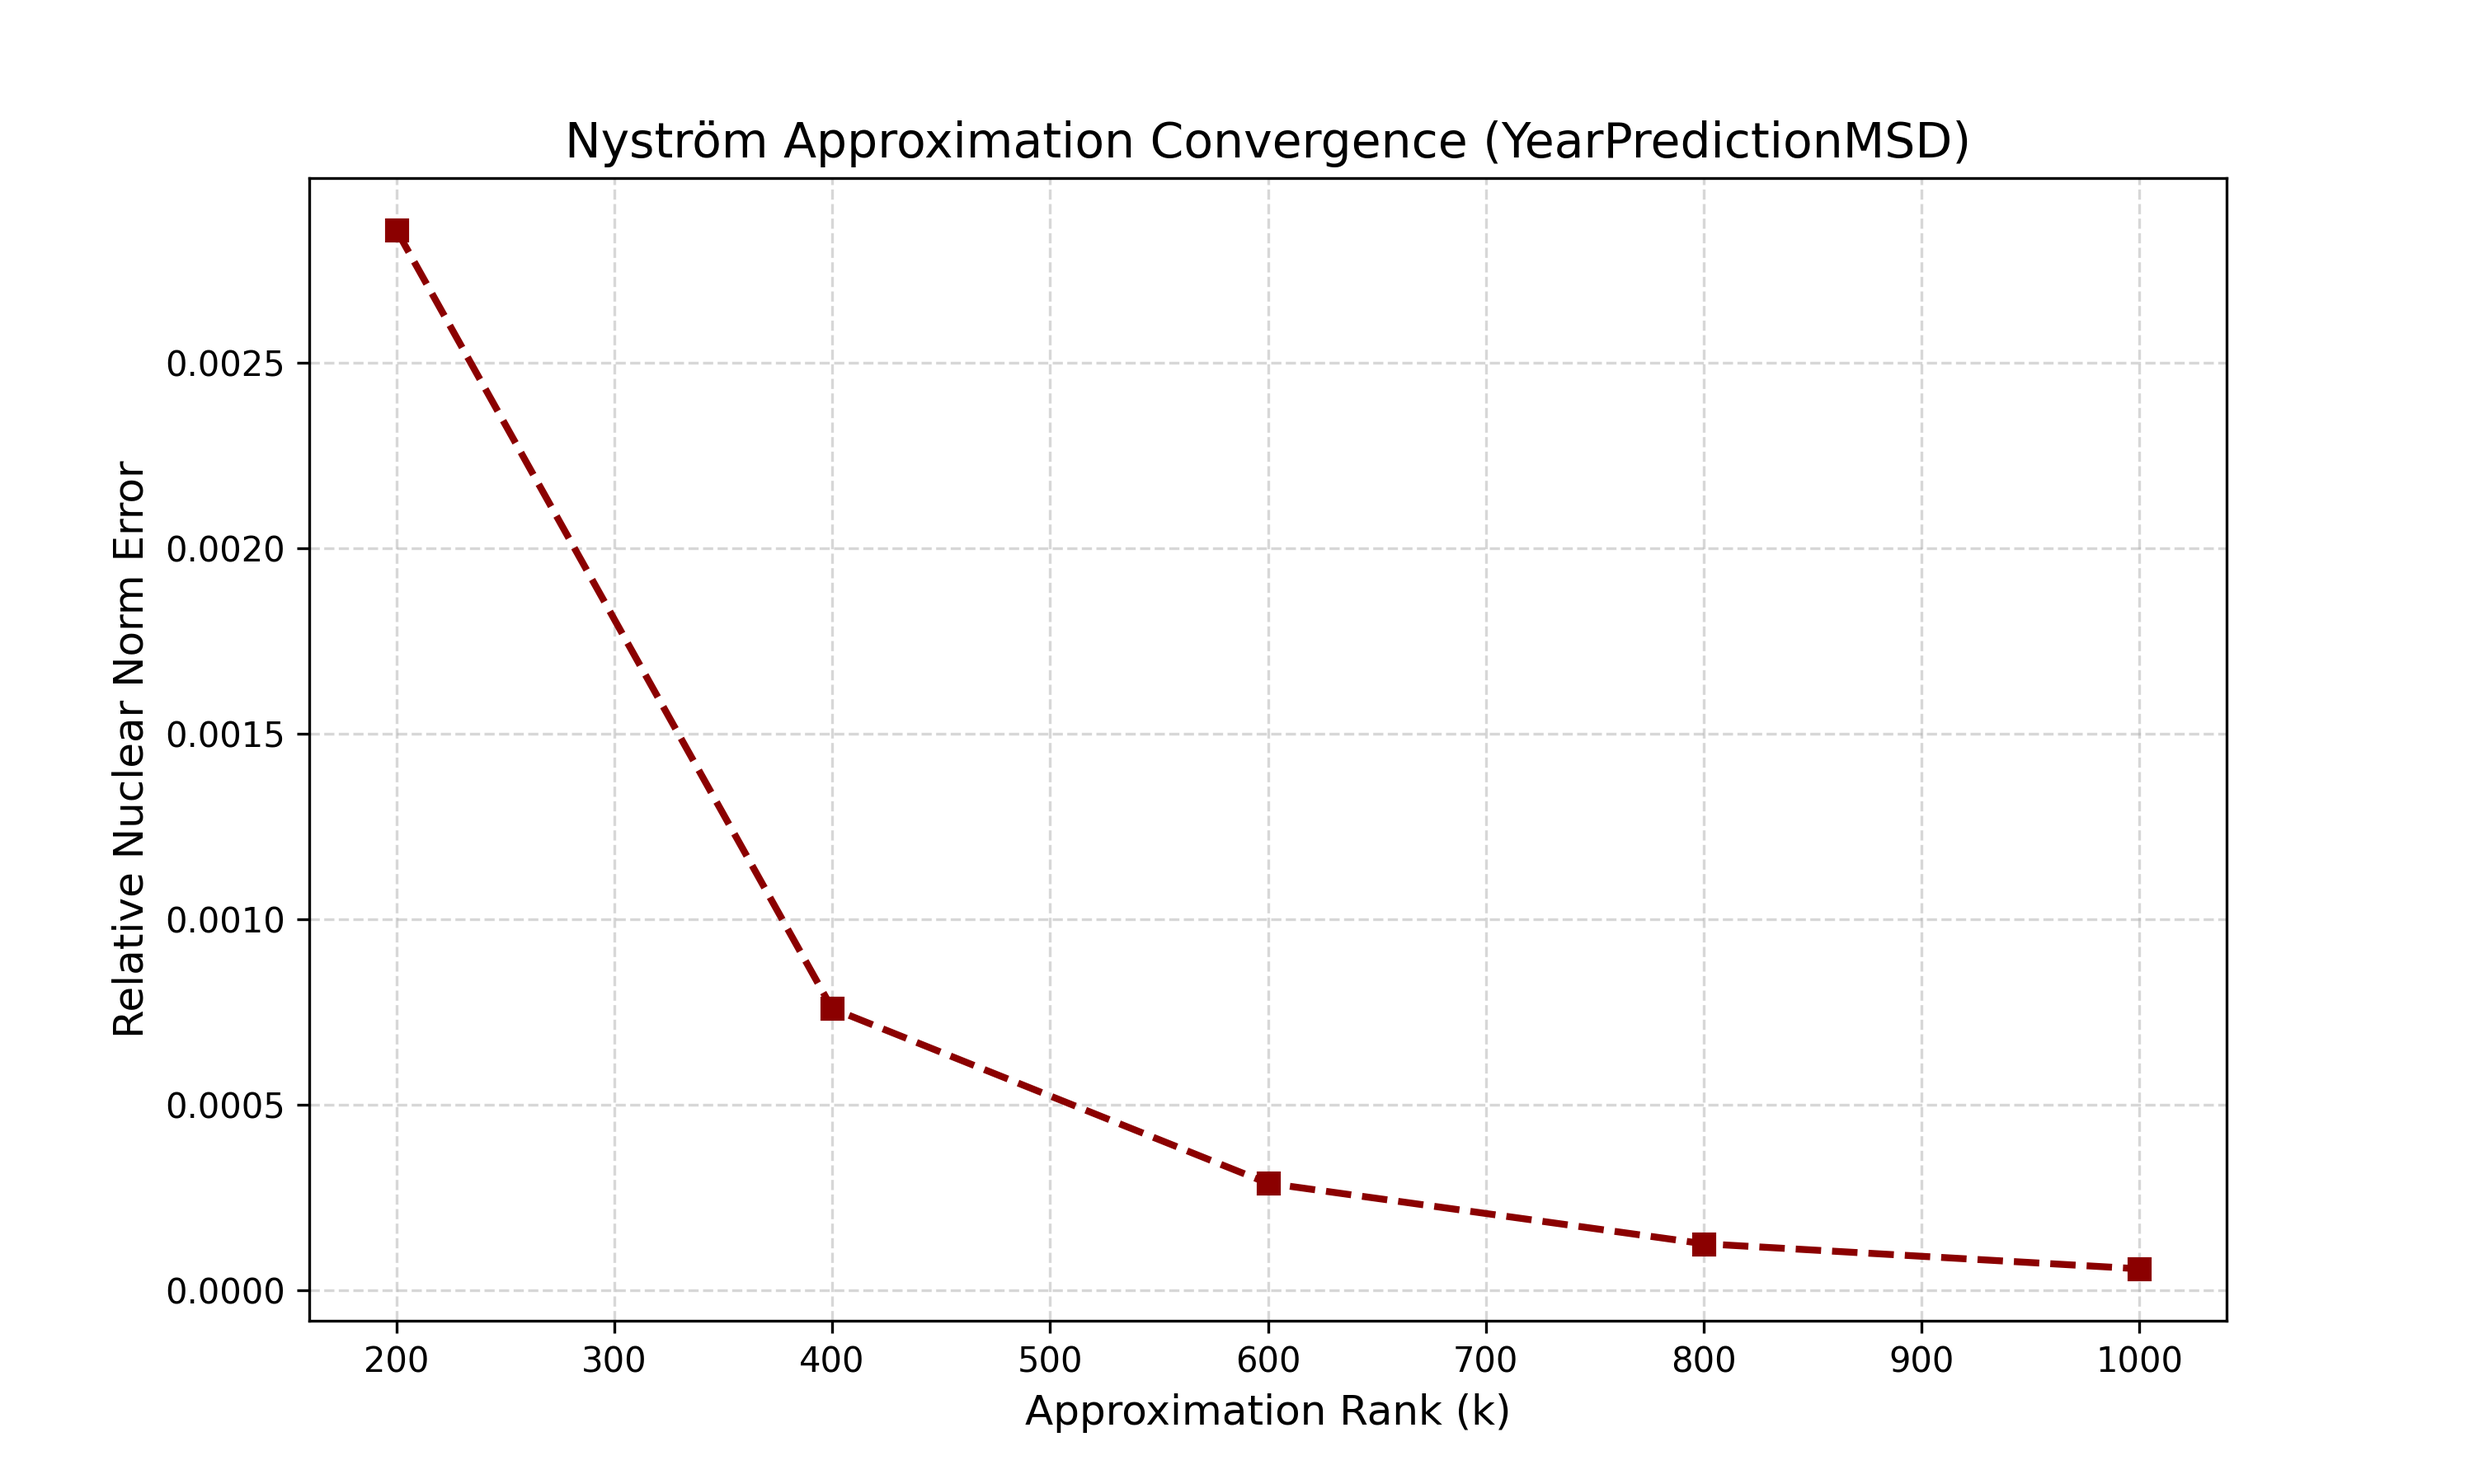
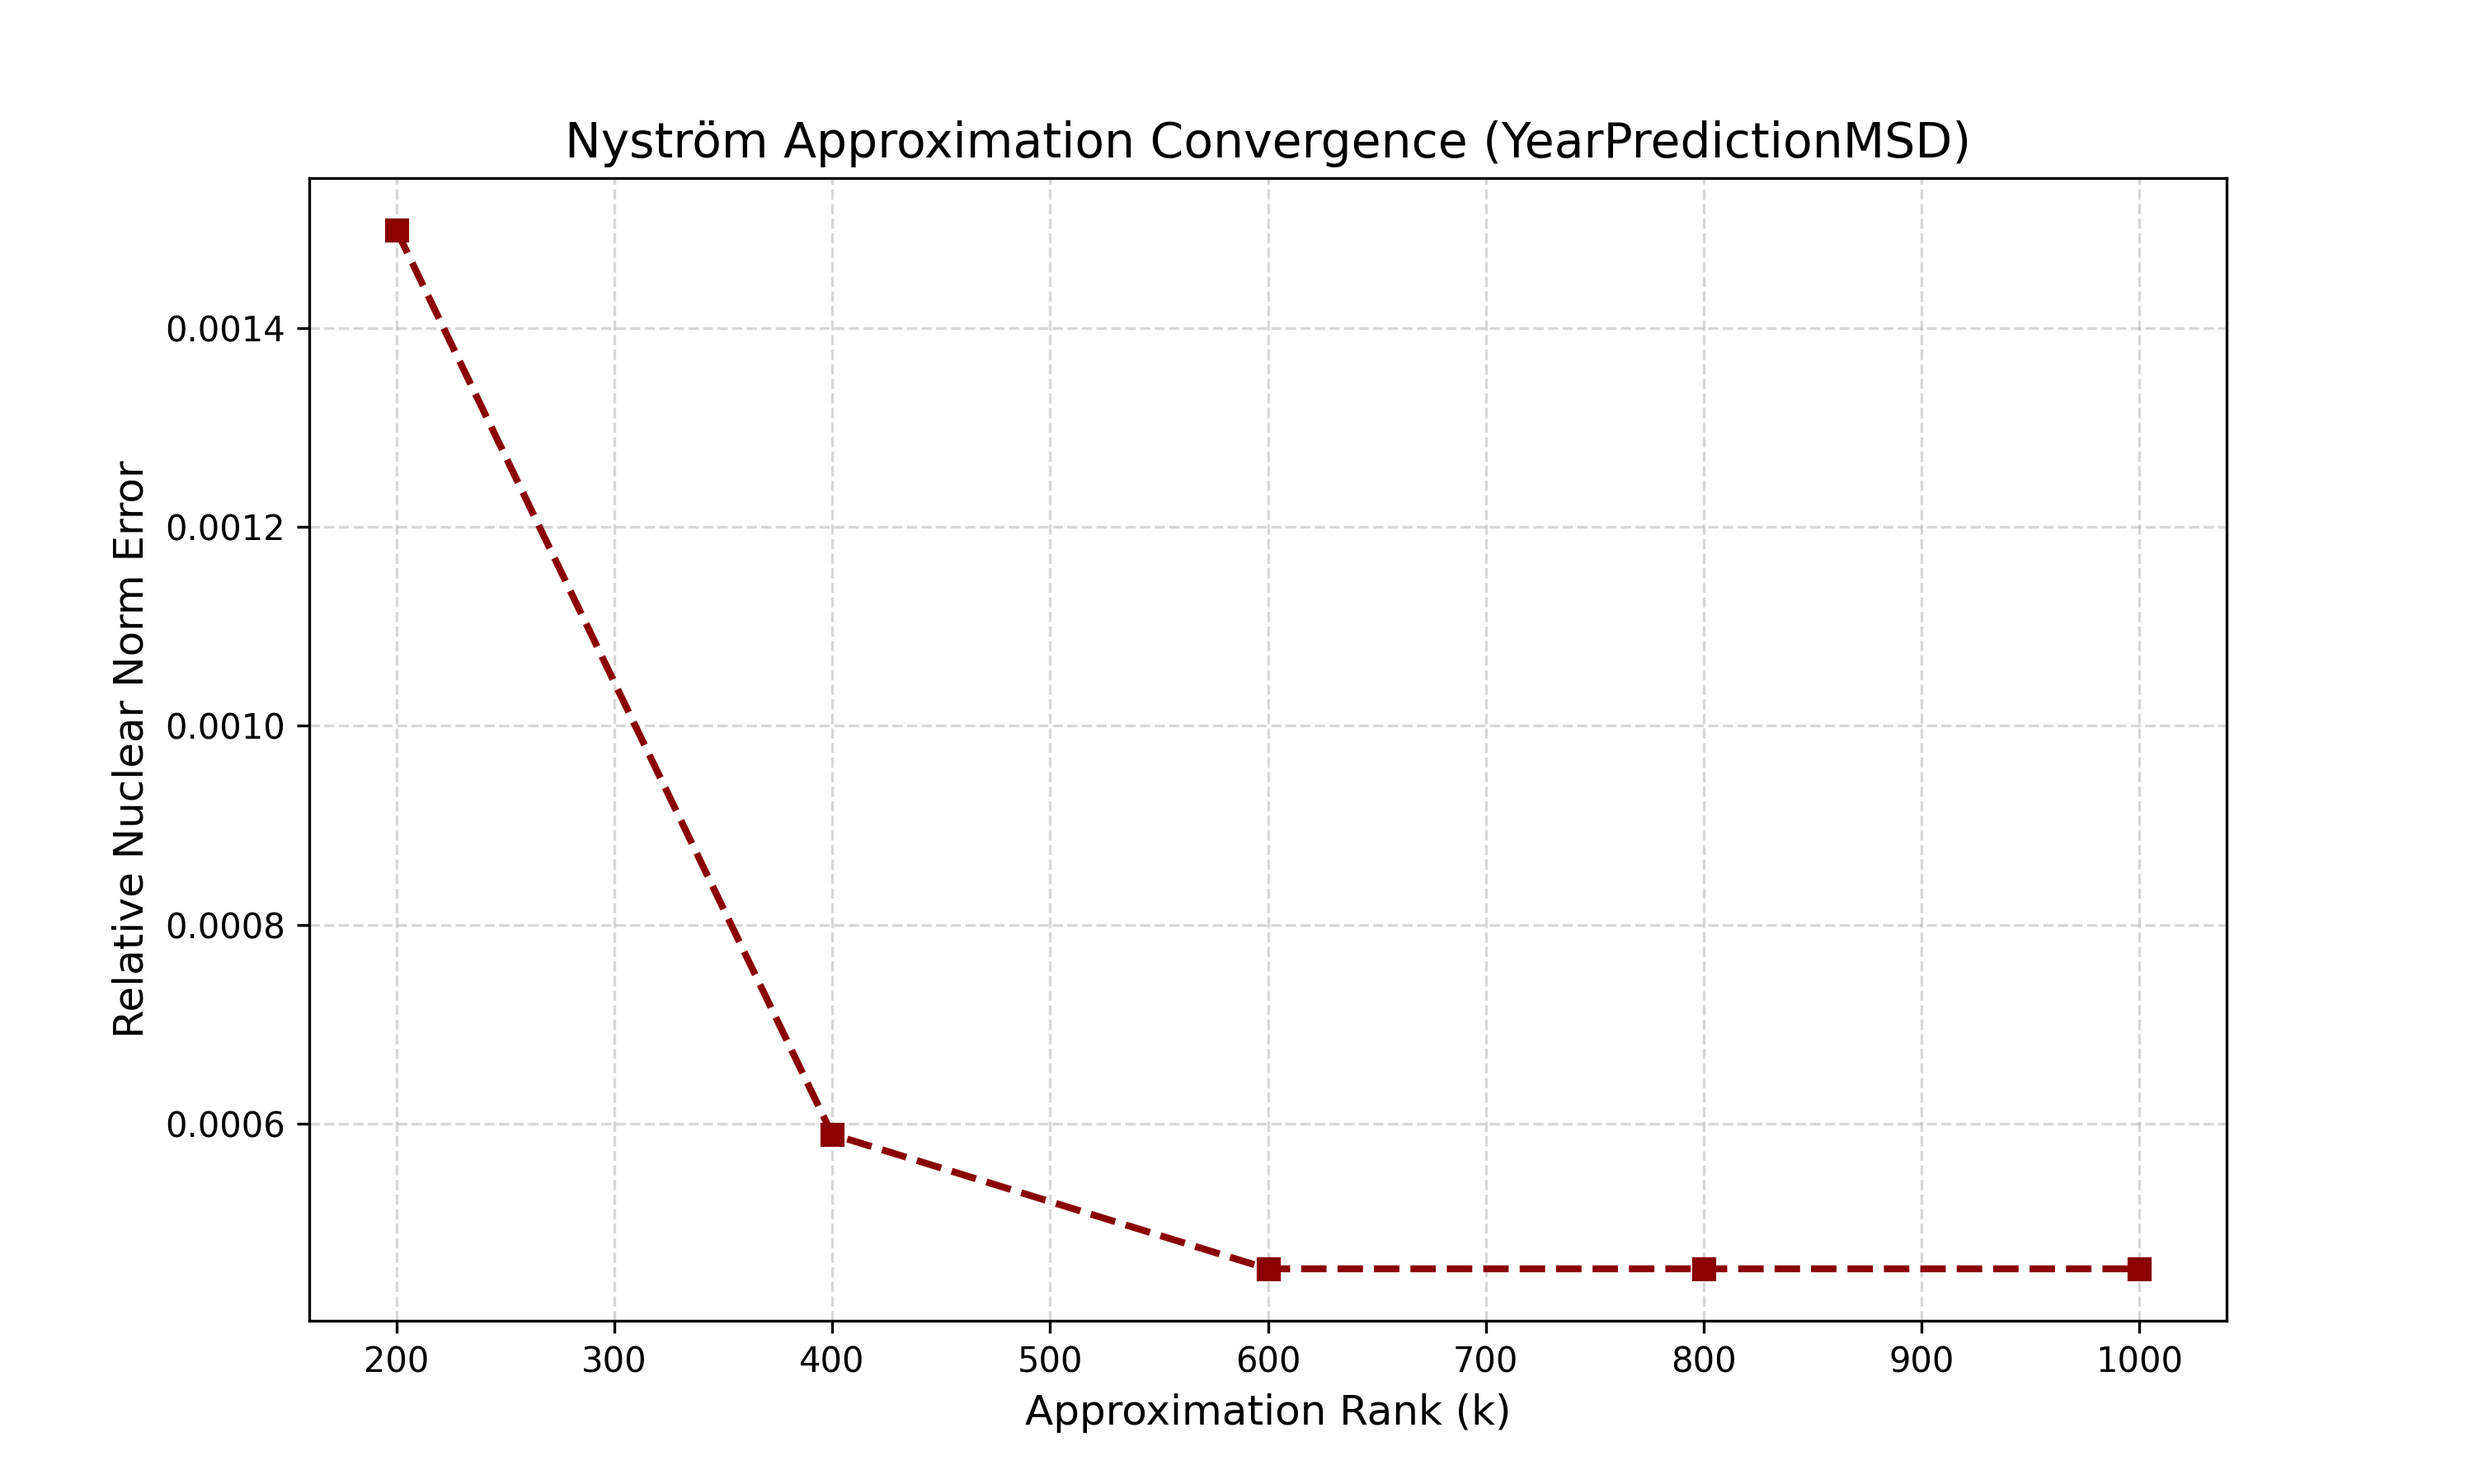
sketching matrix dim fixed

diff --git a/main.py b/main.py
@@ -188,117 +188,71 @@ def compute_nystrom_approximation(C, B, k):
     return U_hat[:, :k], Sigma_k[:k]
 
 
+import matplotlib.pyplot as plt
+
+
 def main():
     comm = MPI.COMM_WORLD
     rank = comm.Get_rank()
     nystrom = ParallelNystrom(comm)
 
-    # Parameters for YearPrediction MSD dataset
     filepath = "dataset/YearPredictionMSD.t"
     n_samples = 1000
     d = 90
-    l = 200
-    k = 50
     c_squared = 1e8
 
-    C, B = nystrom.run_nystrom(filepath, n_samples, d, l, c_squared)
+    # Definiamo i parametri da testare
+    l_values = [400, 700, 1000]
+    k_values = [25, 50, 100, 200, 400]
 
     if rank == 0:
-
-        print("the value of c_squared is:", c_squared)
-        print("the rank k is:", k)
-
-        X_full, _ = load_svmlight_text(filepath, n_samples=n_samples, n_features=d)
-
-        # Example distance and kernel value
-        dist_es = np.sum((X_full[0] - X_full[1]) ** 2)
-        print(f"distance between the first two points for debugging: {dist_es:.2f}")
-        print(f"value (exp(-dist/c^2)): {np.exp(-dist_es/c_squared):.6e}")
-
-        U_hat_k, Sigma_k_sq = compute_nystrom_approximation(C, B, k)
-        A_nyst = U_hat_k @ np.diag(Sigma_k_sq) @ U_hat_k.T
-
-        # Compute full kernel matrix for error calculation
+        plt.figure(figsize=(12, 7))
         X_full, _ = load_svmlight_text(filepath, n_samples=n_samples, n_features=d)
         sq_norms = np.sum(X_full**2, axis=1)[:, np.newaxis]
         A_full = np.exp(-(sq_norms + sq_norms.T - 2 * X_full @ X_full.T) / c_squared)
+        norm_A = np.linalg.norm(A_full, ord="nuc")
 
-        # Relative Nuclear Norm Error
-        error_nuc = np.linalg.norm(A_full - A_nyst, ord="nuc") / np.linalg.norm(
-            A_full, ord="nuc"
-        )
-        print(f"\n--- RESULTS ---")
-        print(f"Dataset: YearPredictionMSD (n={n_samples})")
-        print(f"Rel. Nuclear Norm Error: {error_nuc:.6f}")
+    for l in l_values:
+        errors_for_l = []
+        # Calcolo parallelo una sola volta per ogni l
+        C, B = nystrom.run_nystrom(filepath, n_samples, d, l, c_squared)
 
+        for k in k_values:
+            # Salta se il rango richiesto è maggiore dello sketch disponibile
+            if k > l:
+                continue
 
-import matplotlib.pyplot as plt
+            if rank == 0:
+                # Approssimazione di rango k partendo dallo sketch l
+                U_hat_k, Sigma_k = compute_nystrom_approximation(C, B, k)
+                A_nyst = U_hat_k @ np.diag(Sigma_k) @ U_hat_k.T
 
-
-def main2():
-    comm = MPI.COMM_WORLD
-    rank = comm.Get_rank()
-    nystrom = ParallelNystrom(comm)
-
-    # Dataset parameters
-    filepath = "dataset/YearPredictionMSD.t"
-    n_samples = 2000
-    d = 90
-    c_squared = 1e8  # Use the same bandwidth for all tests
-
-    # Ranks to test for the plot
-    k_values = [200, 400, 600, 800, 1000]
-    errors = []
-
-    if rank == 0:
-        print(f"Starting Benchmark: n={n_samples}, c_squared={c_squared}")
-        print("-" * 40)
-
-    for k in k_values:
-        # Each rank participates in the parallel computation
-        C, B = nystrom.run_nystrom(filepath, n_samples, d, k, c_squared)
+                error_nuc = np.linalg.norm(A_full - A_nyst, ord="nuc") / norm_A
+                errors_for_l.append(error_nuc)
+                print(f"l={l:4d}, k={k:4d} | Error: {error_nuc:.6e}")
 
         if rank == 0:
-            # Reconstruction and Error Calculation (Root only)
-            U_hat_k, Sigma_k = compute_nystrom_approximation(C, B, k)
-            A_nyst = U_hat_k @ np.diag(Sigma_k) @ U_hat_k.T
-
-            # Compute Ground Truth Matrix (Full Kernel)
-            X_full, _ = load_svmlight_text(filepath, n_samples=n_samples, n_features=d)
-            sq_norms = np.sum(X_full**2, axis=1)[:, np.newaxis]
-            A_full = np.exp(
-                -(sq_norms + sq_norms.T - 2 * X_full @ X_full.T) / c_squared
+            plt.plot(
+                k_values[: len(errors_for_l)],
+                errors_for_l,
+                marker="o",
+                label=f"Sketch l={l}",
             )
 
-            # Error using Nuclear Norm
-            error_nuc = np.linalg.norm(A_full - A_nyst, ord="nuc") / np.linalg.norm(
-                A_full, ord="nuc"
-            )
-            errors.append(error_nuc)
-
-            print(f"k = {k:4d} | Relative Nuclear Error: {error_nuc:.6f}")
-
-    # Plotting Section (Only Rank 0)
     if rank == 0:
-        plt.figure(figsize=(10, 6))
-        plt.plot(
-            k_values, errors, marker="s", linestyle="--", color="darkred", linewidth=2
+        plt.title(
+            "Nyström Convergence: Impact of Sketch Size (l) and Rank (k)", fontsize=14
         )
-
-        # Formatting the plot
-        plt.title("Nyström Approximation Convergence (YearPredictionMSD)", fontsize=14)
-        plt.xlabel("Approximation Rank (k)", fontsize=12)
+        plt.xlabel("Target Rank (k)", fontsize=12)
         plt.ylabel("Relative Nuclear Norm Error", fontsize=12)
+        plt.yscale(
+            "log"
+        )  # La scala logaritmica aiuta a vedere bene le differenze piccole
+        plt.legend()
         plt.grid(True, which="both", linestyle="--", alpha=0.5)
-
-        # Save the figure for your report
-        plt.savefig("nystrom_convergence_plot.png", dpi=300)
-        print("-" * 40)
-        print("Plot successfully saved as 'nystrom_convergence_plot.png'")
+        plt.savefig("nystrom_l_vs_k_comparison.png", dpi=300)
         plt.show()
-        return
 
 
 if __name__ == "__main__":
-    # Change main() to main2() here to run the benchmark
-    main2()
+    main()
